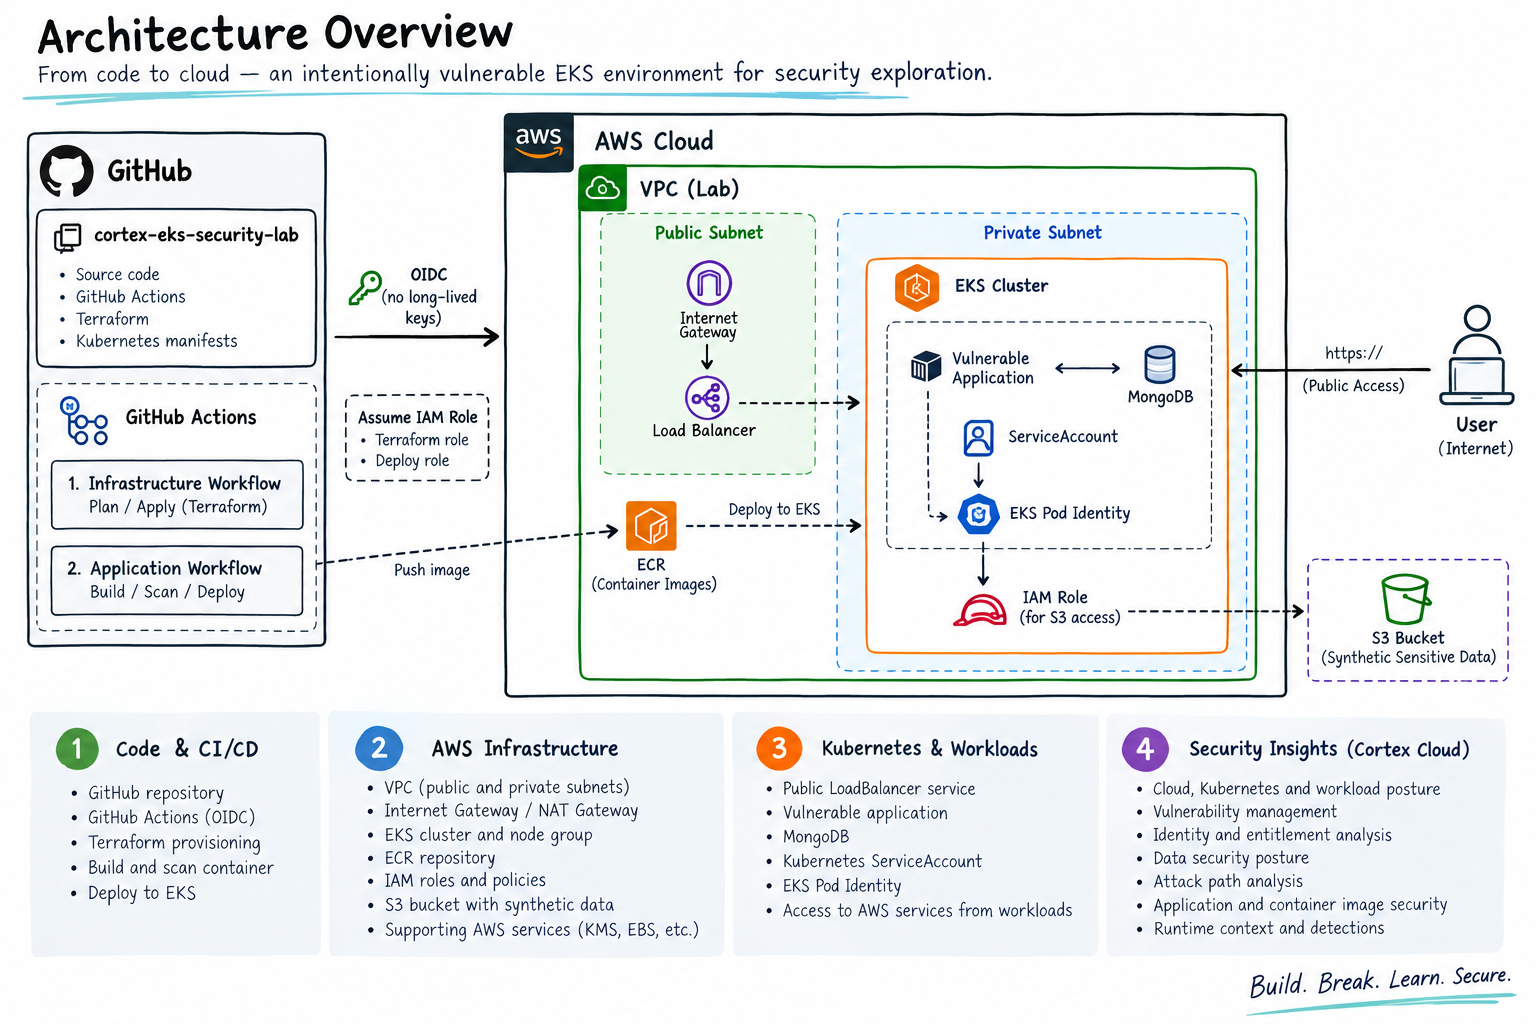
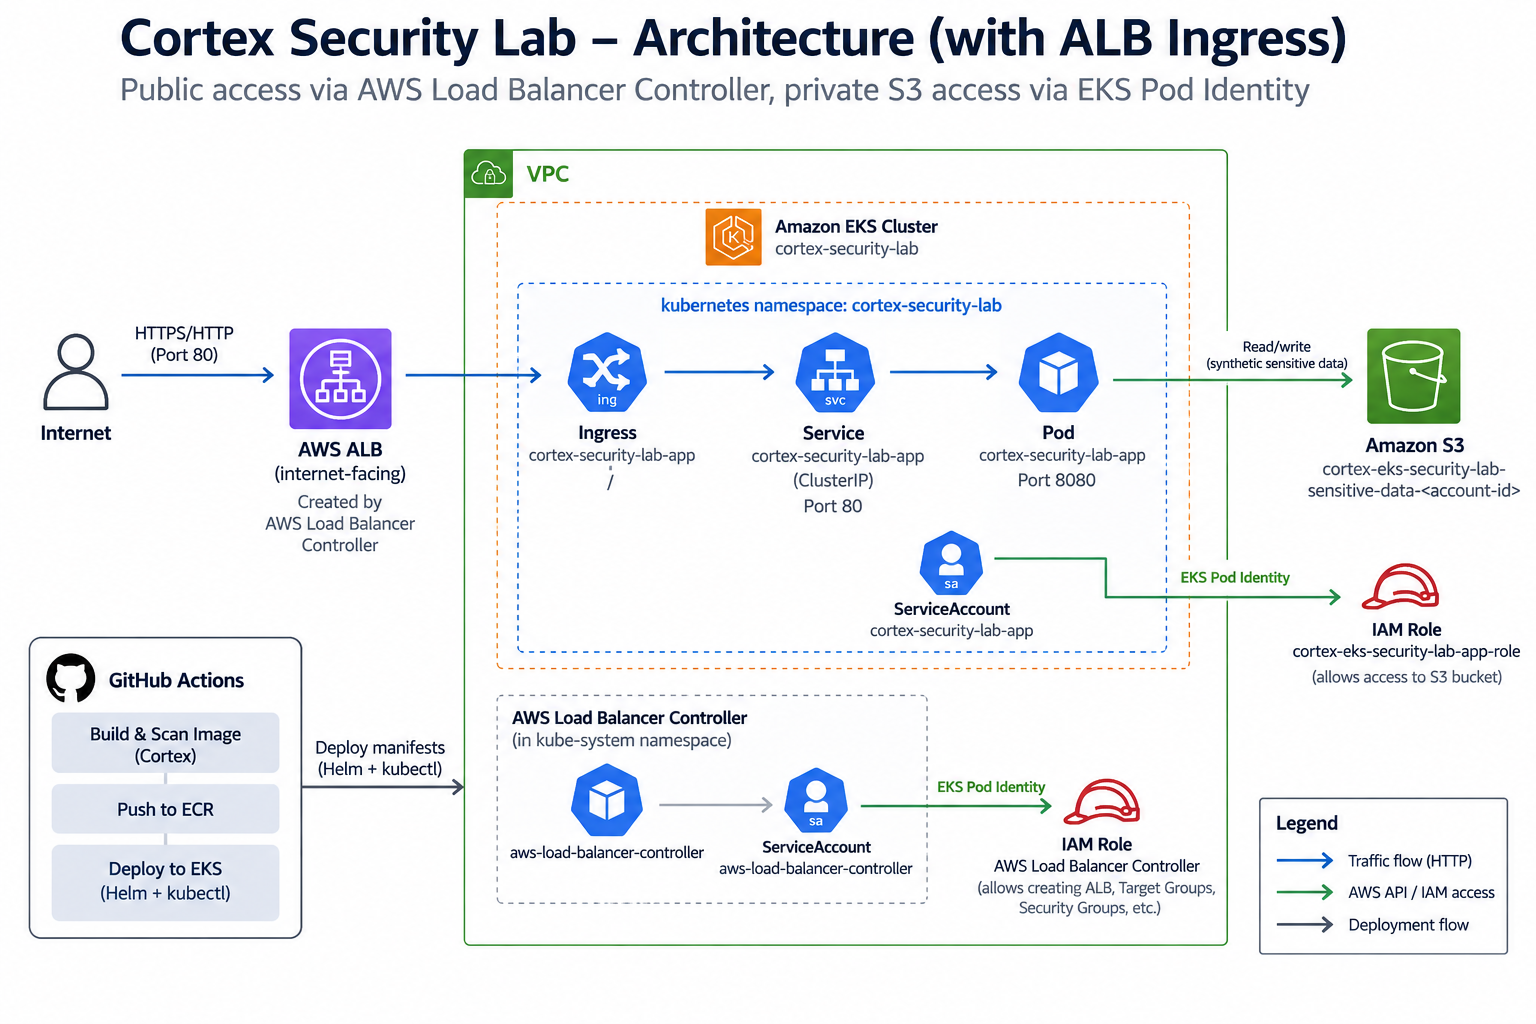
Add ALB ingress architecture to EKS security lab

Changed region(s): [[0.0, 0.0, 1.0, 1.0], [0.375, 0.25, 0.4062, 0.2812]]

diff --git a/README.md b/README.md
@@ -50,10 +50,16 @@ The primary attack path demonstrated by the lab is:
     Internet
        |
        v
-    Public Load Balancer
+    Internet-Facing AWS ALB
        |
        v
-    Vulnerable Container
+    Kubernetes Ingress
+       |
+       v
+    ClusterIP Service
+       |
+       v
+    Vulnerable Application Pod
        |
        v
     Kubernetes ServiceAccount
@@ -68,6 +74,8 @@ The primary attack path demonstrated by the lab is:
     Synthetic Sensitive S3 Bucket
 
 This allows security findings to be correlated across external exposure, workload vulnerabilities, Kubernetes identity, AWS permissions, and sensitive data.
+
+The public application path is implemented using the AWS Load Balancer Controller. The controller is installed in the EKS cluster through Helm and uses EKS Pod Identity to obtain the AWS permissions required to provision and manage the internet-facing Application Load Balancer, target groups, listeners, and security groups.
 
 ---
 
@@ -95,7 +103,8 @@ Major components include:
 The Kubernetes layer deploys:
 
 - Vulnerable application container
-- Public LoadBalancer service
+- Internet-facing AWS ALB managed by the AWS Load Balancer Controller
+- Kubernetes Ingress and ClusterIP application service
 - Kubernetes ServiceAccount
 - MongoDB
 - Persistent storage
@@ -598,7 +607,7 @@ The workflow performs the following operations:
 11. Renders runtime Kubernetes configuration
 12. Deploys MongoDB
 13. Deploys the vulnerable application
-14. Exposes the application through a public LoadBalancer
+14. Exposes the application through an internet-facing AWS ALB, Kubernetes Ingress, and ClusterIP service
 
 No AWS account ID, EKS cluster name, ECR repository URL, or S3 bucket name needs to be hardcoded into the public repository.
 
@@ -663,7 +672,13 @@ One of the primary scenarios created by the lab is:
     Internet
        |
        v
-    Public Kubernetes LoadBalancer
+    Internet-Facing AWS ALB
+       |
+       v
+    Kubernetes Ingress
+       |
+       v
+    ClusterIP Service
        |
        v
     Vulnerable Application
@@ -699,7 +714,7 @@ Depending on the Cortex Cloud modules enabled in the tenant, the environment can
 | CWP | Container and workload vulnerabilities |
 | CIEM | IAM permissions and workload identities |
 | DSPM | Sensitive data discovery and exposure |
-| Attack Paths | Internet → workload → identity → data |
+| Attack Paths | Internet → ALB → Ingress → workload → identity → data |
 | Runtime | Workload activity and runtime telemetry |
 
 Actual findings depend on tenant configuration, enabled capabilities, licenses, scanning status, and deployed resources.
